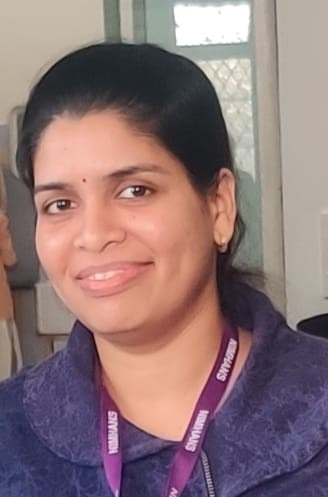
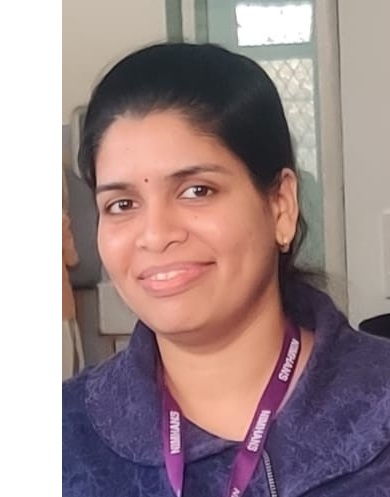
feat: update consortium list details and add Praerna image to team assets

diff --git a/index.html b/index.html
@@ -2585,120 +2585,120 @@
       <div class="tab-panel" id="tab-consortium" role="tabpanel">
         <div class="consortium-grid">
           <div class="consortium-row">
-            <div class="cons-name"><a href="https://www.msu.ru/" target="_blank" rel="noopener" style="transition: color .2s;" onmouseover="this.style.color='var(--saffron)'" onmouseout="this.style.color='inherit'">Alexander Kaplan</a></div>
+            <div class="cons-name"><a href="https://www.google.com/search?q=Alexander+Kaplan+Lomonosov+Moscow+State+University" target="_blank" rel="noopener" style="transition: color .2s;" onmouseover="this.style.color='var(--saffron)'" onmouseout="this.style.color='inherit'">Alexander Kaplan</a></div>
             <div class="cons-dept">Lomonosov Moscow State University</div>
           </div>
           <div class="consortium-row">
-            <div class="cons-name"><a href="https://nimhans.ac.in/" target="_blank" rel="noopener" style="transition: color .2s;" onmouseover="this.style.color='var(--saffron)'" onmouseout="this.style.color='inherit'">Arvind</a></div>
+            <div class="cons-name"><a href="https://www.google.com/search?q=Dr.+Aravind+Kumar+R.+NIMHANS" target="_blank" rel="noopener" style="transition: color .2s;" onmouseover="this.style.color='var(--saffron)'" onmouseout="this.style.color='inherit'">Dr. Aravind Kumar R.</a></div>
             <div class="cons-dept">Department of Speech Pathology and Audiology, NIMHANS</div>
           </div>
           <div class="consortium-row">
-            <div class="cons-name"><a href="https://www.bidmc.org/" target="_blank" rel="noopener" style="transition: color .2s;" onmouseover="this.style.color='var(--saffron)'" onmouseout="this.style.color='inherit'">Balachundhar Subramaniam</a></div>
+            <div class="cons-name"><a href="https://www.google.com/search?q=Balachundhar+Subramaniam+Harvard" target="_blank" rel="noopener" style="transition: color .2s;" onmouseover="this.style.color='var(--saffron)'" onmouseout="this.style.color='inherit'">Balachundhar Subramaniam</a></div>
             <div class="cons-dept">Beth Israel Deaconess Medical Center, Harvard Medical School</div>
           </div>
           <div class="consortium-row">
-            <div class="cons-name"><a href="https://nimhans.ac.in/" target="_blank" rel="noopener" style="transition: color .2s;" onmouseover="this.style.color='var(--saffron)'" onmouseout="this.style.color='inherit'">Bharath Holla</a></div>
-            <div class="cons-dept">NIMHANS</div>
+            <div class="cons-name"><a href="https://www.google.com/search?q=Dr.+Bharath+Holla+NIMHANS" target="_blank" rel="noopener" style="transition: color .2s;" onmouseover="this.style.color='var(--saffron)'" onmouseout="this.style.color='inherit'">Dr. Bharath Holla</a></div>
+            <div class="cons-dept">Department of Integrative Medicine, NIMHANS</div>
           </div>
           <div class="consortium-row">
-            <div class="cons-name"><a href="https://en.ru.is/" target="_blank" rel="noopener" style="transition: color .2s;" onmouseover="this.style.color='var(--saffron)'" onmouseout="this.style.color='inherit'">Ceon Ramon</a></div>
+            <div class="cons-name"><a href="https://www.google.com/search?q=Ceon+Ramon+Reykjavik+University" target="_blank" rel="noopener" style="transition: color .2s;" onmouseover="this.style.color='var(--saffron)'" onmouseout="this.style.color='inherit'">Ceon Ramon</a></div>
             <div class="cons-dept">Reykjavik University &amp; University of Washington</div>
           </div>
           <div class="consortium-row">
-            <div class="cons-name"><a href="https://manipal.edu/" target="_blank" rel="noopener" style="transition: color .2s;" onmouseover="this.style.color='var(--saffron)'" onmouseout="this.style.color='inherit'">Ganesh Kamath</a></div>
+            <div class="cons-name"><a href="https://www.google.com/search?q=Ganesh+Kamath+Kasturba+Medical+College" target="_blank" rel="noopener" style="transition: color .2s;" onmouseover="this.style.color='var(--saffron)'" onmouseout="this.style.color='inherit'">Ganesh Kamath</a></div>
             <div class="cons-dept">Kasturba Medical College, Manipal</div>
           </div>
           <div class="consortium-row">
-            <div class="cons-name"><a href="https://www.theroyal.ca/institute-mental-health-research" target="_blank" rel="noopener" style="transition: color .2s;" onmouseover="this.style.color='var(--saffron)'" onmouseout="this.style.color='inherit'">Georg Northoff</a></div>
+            <div class="cons-name"><a href="https://www.google.com/search?q=Georg+Northoff+University+of+Ottawa" target="_blank" rel="noopener" style="transition: color .2s;" onmouseover="this.style.color='var(--saffron)'" onmouseout="this.style.color='inherit'">Georg Northoff</a></div>
             <div class="cons-dept">University of Ottawa Institute of Mental Health Research</div>
           </div>
           <div class="consortium-row">
-            <div class="cons-name"><a href="https://nimhans.ac.in/" target="_blank" rel="noopener" style="transition: color .2s;" onmouseover="this.style.color='var(--saffron)'" onmouseout="this.style.color='inherit'">Hemant Bhargav</a></div>
-            <div class="cons-dept">NIMHANS</div>
+            <div class="cons-name"><a href="https://www.google.com/search?q=Dr.+Hemant+Bhargav+NIMHANS" target="_blank" rel="noopener" style="transition: color .2s;" onmouseover="this.style.color='var(--saffron)'" onmouseout="this.style.color='inherit'">Dr. Hemant Bhargav</a></div>
+            <div class="cons-dept">Department of Integrative Medicine, NIMHANS</div>
           </div>
           <div class="consortium-row">
-            <div class="cons-name"><a href="https://nimhans.ac.in/" target="_blank" rel="noopener" style="transition: color .2s;" onmouseover="this.style.color='var(--saffron)'" onmouseout="this.style.color='inherit'">John P John</a></div>
-            <div class="cons-dept">NIMHANS</div>
+            <div class="cons-name"><a href="https://www.google.com/search?q=Dr.+John+P.+John+NIMHANS" target="_blank" rel="noopener" style="transition: color .2s;" onmouseover="this.style.color='var(--saffron)'" onmouseout="this.style.color='inherit'">Dr. John P. John</a></div>
+            <div class="cons-dept">Department of Psychiatry, NIMHANS</div>
           </div>
           <div class="consortium-row">
-            <div class="cons-name"><a href="https://nimhans.ac.in/" target="_blank" rel="noopener" style="transition: color .2s;" onmouseover="this.style.color='var(--saffron)'" onmouseout="this.style.color='inherit'">Jyotsna</a></div>
-            <div class="cons-dept">NIMHANS</div>
+            <div class="cons-name"><a href="https://www.google.com/search?q=Dr.+Jyotsna+Agrawal+NIMHANS" target="_blank" rel="noopener" style="transition: color .2s;" onmouseover="this.style.color='var(--saffron)'" onmouseout="this.style.color='inherit'">Dr. Jyotsna Agrawal</a></div>
+            <div class="cons-dept">Department of Clinical Psychology, NIMHANS</div>
           </div>
           <div class="consortium-row">
-            <div class="cons-name">KR Rajendra</div>
+            <div class="cons-name"><a href="https://www.google.com/search?q=KR+Rajendra+Disability+Rehabilitation+Expert" target="_blank" rel="noopener" style="transition: color .2s;" onmouseover="this.style.color='var(--saffron)'" onmouseout="this.style.color='inherit'">KR Rajendra</a></div>
             <div class="cons-dept">Disability &amp; Rehabilitation Expert</div>
           </div>
           <div class="consortium-row">
-            <div class="cons-name"><a href="https://stjohns.in/" target="_blank" rel="noopener" style="transition: color .2s;" onmouseover="this.style.color='var(--saffron)'" onmouseout="this.style.color='inherit'">Kavitha</a></div>
-            <div class="cons-dept">St. John's National Academy of Health Sciences</div>
+            <div class="cons-name"><a href="https://www.google.com/search?q=Dr.+Kavitha+Venkatnarayan+St.+John%27s" target="_blank" rel="noopener" style="transition: color .2s;" onmouseover="this.style.color='var(--saffron)'" onmouseout="this.style.color='inherit'">Dr. Kavitha Venkatnarayan</a></div>
+            <div class="cons-dept">Department of Pulmonary Medicine, St. John's National Academy of Health Sciences</div>
           </div>
           <div class="consortium-row">
-            <div class="cons-name"><a href="https://christuniversity.in/" target="_blank" rel="noopener" style="transition: color .2s;" onmouseover="this.style.color='var(--saffron)'" onmouseout="this.style.color='inherit'">Madhavi Rangaswamy</a></div>
+            <div class="cons-name"><a href="https://www.google.com/search?q=Madhavi+Rangaswamy+CHRIST+University" target="_blank" rel="noopener" style="transition: color .2s;" onmouseover="this.style.color='var(--saffron)'" onmouseout="this.style.color='inherit'">Madhavi Rangaswamy</a></div>
             <div class="cons-dept">CHRIST (Deemed to be University)</div>
           </div>
           <div class="consortium-row">
-            <div class="cons-name"><a href="https://nimhans.ac.in/" target="_blank" rel="noopener" style="transition: color .2s;" onmouseover="this.style.color='var(--saffron)'" onmouseout="this.style.color='inherit'">Manoj Sharma</a></div>
-            <div class="cons-dept">NIMHANS</div>
+            <div class="cons-name"><a href="https://www.google.com/search?q=Dr.+Manoj+Sharma+NIMHANS" target="_blank" rel="noopener" style="transition: color .2s;" onmouseover="this.style.color='var(--saffron)'" onmouseout="this.style.color='inherit'">Dr. Manoj Sharma</a></div>
+            <div class="cons-dept">Department of Clinical Psychology, NIMHANS</div>
           </div>
           <div class="consortium-row">
-            <div class="cons-name"><a href="https://nias.res.in/" target="_blank" rel="noopener" style="transition: color .2s;" onmouseover="this.style.color='var(--saffron)'" onmouseout="this.style.color='inherit'">Nithin Nagaraj</a></div>
+            <div class="cons-name"><a href="https://www.google.com/search?q=Nithin+Nagaraj+NIAS" target="_blank" rel="noopener" style="transition: color .2s;" onmouseover="this.style.color='var(--saffron)'" onmouseout="this.style.color='inherit'">Nithin Nagaraj</a></div>
             <div class="cons-dept">National Institute of Advanced Studies (NIAS)</div>
           </div>
           <div class="consortium-row">
-            <div class="cons-name"><a href="https://nimhans.ac.in/" target="_blank" rel="noopener" style="transition: color .2s;" onmouseover="this.style.color='var(--saffron)'" onmouseout="this.style.color='inherit'">Pradeep</a></div>
+            <div class="cons-name"><a href="https://www.google.com/search?q=Dr.+Pradeep+Yuvaraj+NIMHANS" target="_blank" rel="noopener" style="transition: color .2s;" onmouseover="this.style.color='var(--saffron)'" onmouseout="this.style.color='inherit'">Dr. Pradeep Yuvaraj</a></div>
             <div class="cons-dept">Department of Speech Pathology and Audiology, NIMHANS</div>
           </div>
           <div class="consortium-row">
-            <div class="cons-name"><a href="https://cervo.ulaval.ca/" target="_blank" rel="noopener" style="transition: color .2s;" onmouseover="this.style.color='var(--saffron)'" onmouseout="this.style.color='inherit'">Prejaas Tewarie</a></div>
+            <div class="cons-name"><a href="https://www.google.com/search?q=Prejaas+Tewarie+CERVO" target="_blank" rel="noopener" style="transition: color .2s;" onmouseover="this.style.color='var(--saffron)'" onmouseout="this.style.color='inherit'">Prejaas Tewarie</a></div>
             <div class="cons-dept">CERVO Brain Research Center, Université Laval</div>
           </div>
           <div class="consortium-row">
-            <div class="cons-name"><a href="https://nimhans.ac.in/" target="_blank" rel="noopener" style="transition: color .2s;" onmouseover="this.style.color='var(--saffron)'" onmouseout="this.style.color='inherit'">Priyamvada</a></div>
-            <div class="cons-dept">NIMHANS</div>
+            <div class="cons-name"><a href="https://www.google.com/search?q=Dr.+Priyamvada+Sharma+NIMHANS" target="_blank" rel="noopener" style="transition: color .2s;" onmouseover="this.style.color='var(--saffron)'" onmouseout="this.style.color='inherit'">Dr. Priyamvada Sharma</a></div>
+            <div class="cons-dept">Department of Clinical Psychopharmacology and Neurotoxicology, NIMHANS</div>
           </div>
           <div class="consortium-row">
-            <div class="cons-name"><a href="https://nimhans.ac.in/" target="_blank" rel="noopener" style="transition: color .2s;" onmouseover="this.style.color='var(--saffron)'" onmouseout="this.style.color='inherit'">Ramajayam Govindaraj</a></div>
-            <div class="cons-dept">NIMHANS</div>
+            <div class="cons-name"><a href="https://www.google.com/search?q=Dr.+Ramajayam+Govindaraj+NIMHANS" target="_blank" rel="noopener" style="transition: color .2s;" onmouseover="this.style.color='var(--saffron)'" onmouseout="this.style.color='inherit'">Dr. Ramajayam Govindaraj</a></div>
+            <div class="cons-dept">Department of Neurophysiology, NIMHANS</div>
           </div>
           <div class="consortium-row">
-            <div class="cons-name"><a href="https://nimhans.ac.in/" target="_blank" rel="noopener" style="transition: color .2s;" onmouseover="this.style.color='var(--saffron)'" onmouseout="this.style.color='inherit'">Ravi Yadav</a></div>
-            <div class="cons-dept">NIMHANS</div>
+            <div class="cons-name"><a href="https://www.google.com/search?q=Dr.+Ravi+Yadav+NIMHANS" target="_blank" rel="noopener" style="transition: color .2s;" onmouseover="this.style.color='var(--saffron)'" onmouseout="this.style.color='inherit'">Dr. Ravi Yadav</a></div>
+            <div class="cons-dept">Department of Neurology, NIMHANS</div>
           </div>
           <div class="consortium-row">
-            <div class="cons-name">Ravindranath Chowdhury</div>
+            <div class="cons-name"><a href="https://www.google.com/search?q=Ravindranath+Chowdhury+Independent+Researcher" target="_blank" rel="noopener" style="transition: color .2s;" onmouseover="this.style.color='var(--saffron)'" onmouseout="this.style.color='inherit'">Ravindranath Chowdhury</a></div>
             <div class="cons-dept">Independent Researcher</div>
           </div>
           <div class="consortium-row">
-            <div class="cons-name"><a href="https://centerhealthyminds.org/" target="_blank" rel="noopener" style="transition: color .2s;" onmouseover="this.style.color='var(--saffron)'" onmouseout="this.style.color='inherit'">Richard Davidson</a></div>
+            <div class="cons-name"><a href="https://www.google.com/search?q=Richard+Davidson+Center+for+Healthy+Minds" target="_blank" rel="noopener" style="transition: color .2s;" onmouseover="this.style.color='var(--saffron)'" onmouseout="this.style.color='inherit'">Richard Davidson</a></div>
             <div class="cons-dept">Center for Healthy Minds, UW&ndash;Madison</div>
           </div>
           <div class="consortium-row">
-            <div class="cons-name"><a href="https://nimhans.ac.in/" target="_blank" rel="noopener" style="transition: color .2s;" onmouseover="this.style.color='var(--saffron)'" onmouseout="this.style.color='inherit'">Sanjib Sinha</a></div>
-            <div class="cons-dept">NIMHANS</div>
+            <div class="cons-name"><a href="https://www.google.com/search?q=Dr.+Sanjib+Sinha+NIMHANS" target="_blank" rel="noopener" style="transition: color .2s;" onmouseover="this.style.color='var(--saffron)'" onmouseout="this.style.color='inherit'">Dr. Sanjib Sinha</a></div>
+            <div class="cons-dept">Department of Neurology, NIMHANS</div>
           </div>
           <div class="consortium-row">
-            <div class="cons-name"><a href="https://nimhans.ac.in/" target="_blank" rel="noopener" style="transition: color .2s;" onmouseover="this.style.color='var(--saffron)'" onmouseout="this.style.color='inherit'">Shantala Hegde</a></div>
-            <div class="cons-dept">NIMHANS</div>
+            <div class="cons-name"><a href="https://www.google.com/search?q=Dr.+Shantala+Hegde+NIMHANS" target="_blank" rel="noopener" style="transition: color .2s;" onmouseover="this.style.color='var(--saffron)'" onmouseout="this.style.color='inherit'">Dr. Shantala Hegde</a></div>
+            <div class="cons-dept">Department of Clinical Psychology, NIMHANS</div>
           </div>
           <div class="consortium-row">
-            <div class="cons-name"><a href="https://nimhans.ac.in/" target="_blank" rel="noopener" style="transition: color .2s;" onmouseover="this.style.color='var(--saffron)'" onmouseout="this.style.color='inherit'">Sheshagiri</a></div>
-            <div class="cons-dept">NIMHANS</div>
+            <div class="cons-name"><a href="https://www.google.com/search?q=Dr.+D.V.+Seshagiri+NIMHANS" target="_blank" rel="noopener" style="transition: color .2s;" onmouseover="this.style.color='var(--saffron)'" onmouseout="this.style.color='inherit'">Dr. D.V. Seshagiri</a></div>
+            <div class="cons-dept">Department of Neurology, NIMHANS</div>
           </div>
           <div class="consortium-row">
-            <div class="cons-name"><a href="https://nimhans.ac.in/" target="_blank" rel="noopener" style="transition: color .2s;" onmouseover="this.style.color='var(--saffron)'" onmouseout="this.style.color='inherit'">Shivarama Varambally</a></div>
-            <div class="cons-dept">NIMHANS</div>
+            <div class="cons-name"><a href="https://www.google.com/search?q=Dr.+Shivarama+Varambally+NIMHANS" target="_blank" rel="noopener" style="transition: color .2s;" onmouseover="this.style.color='var(--saffron)'" onmouseout="this.style.color='inherit'">Dr. Shivarama Varambally</a></div>
+            <div class="cons-dept">Department of Psychiatry, NIMHANS</div>
           </div>
           <div class="consortium-row">
-            <div class="cons-name"><a href="https://nias.res.in/" target="_blank" rel="noopener" style="transition: color .2s;" onmouseover="this.style.color='var(--saffron)'" onmouseout="this.style.color='inherit'">Sisir Roy</a></div>
+            <div class="cons-name"><a href="https://www.google.com/search?q=Sisir+Roy+NIAS" target="_blank" rel="noopener" style="transition: color .2s;" onmouseover="this.style.color='var(--saffron)'" onmouseout="this.style.color='inherit'">Sisir Roy</a></div>
             <div class="cons-dept">National Institute of Advanced Studies (NIAS)</div>
           </div>
           <div class="consortium-row">
-            <div class="cons-name"><a href="https://www.uliege.be/" target="_blank" rel="noopener" style="transition: color .2s;" onmouseover="this.style.color='var(--saffron)'" onmouseout="this.style.color='inherit'">Steven Laureys</a></div>
+            <div class="cons-name"><a href="https://www.google.com/search?q=Steven+Laureys+University+of+Liege" target="_blank" rel="noopener" style="transition: color .2s;" onmouseover="this.style.color='var(--saffron)'" onmouseout="this.style.color='inherit'">Steven Laureys</a></div>
             <div class="cons-dept">GIGA Consciousness Research Unit, University of Liège</div>
           </div>
           <div class="consortium-row">
-            <div class="cons-name"><a href="https://stjohns.in/" target="_blank" rel="noopener" style="transition: color .2s;" onmouseover="this.style.color='var(--saffron)'" onmouseout="this.style.color='inherit'">Uma</a></div>
-            <div class="cons-dept">St. John's National Academy of Health Sciences</div>
+            <div class="cons-name"><a href="https://www.google.com/search?q=Dr.+Uma+Maheswari+Krishnaswamy+St.+John%27s" target="_blank" rel="noopener" style="transition: color .2s;" onmouseover="this.style.color='var(--saffron)'" onmouseout="this.style.color='inherit'">Dr. Uma Maheswari Krishnaswamy</a></div>
+            <div class="cons-dept">Department of Pulmonary Medicine, St. John's National Academy of Health Sciences</div>
           </div>
         </div>
       </div>